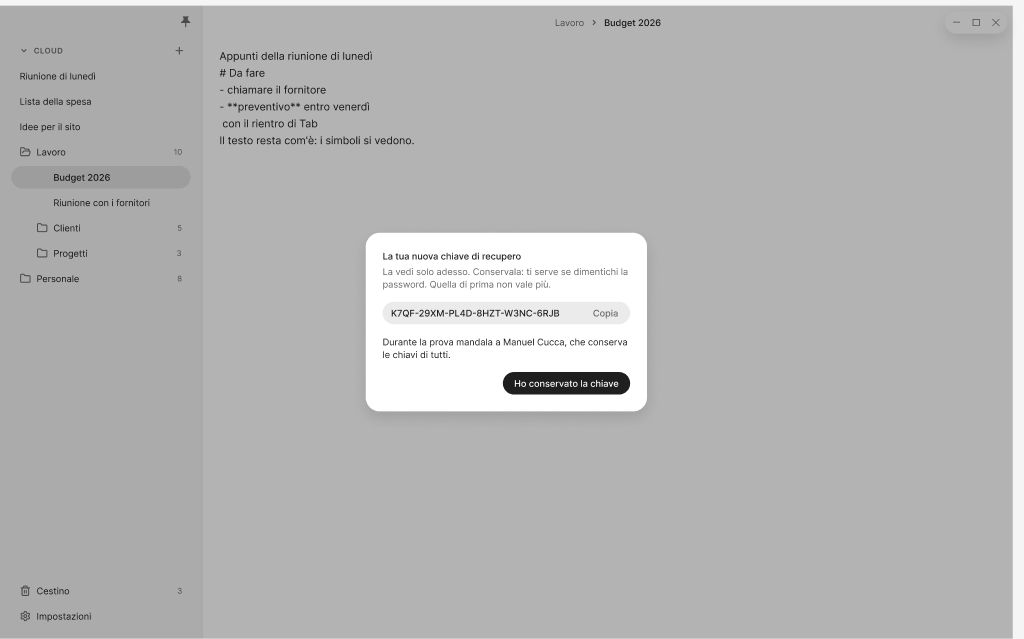
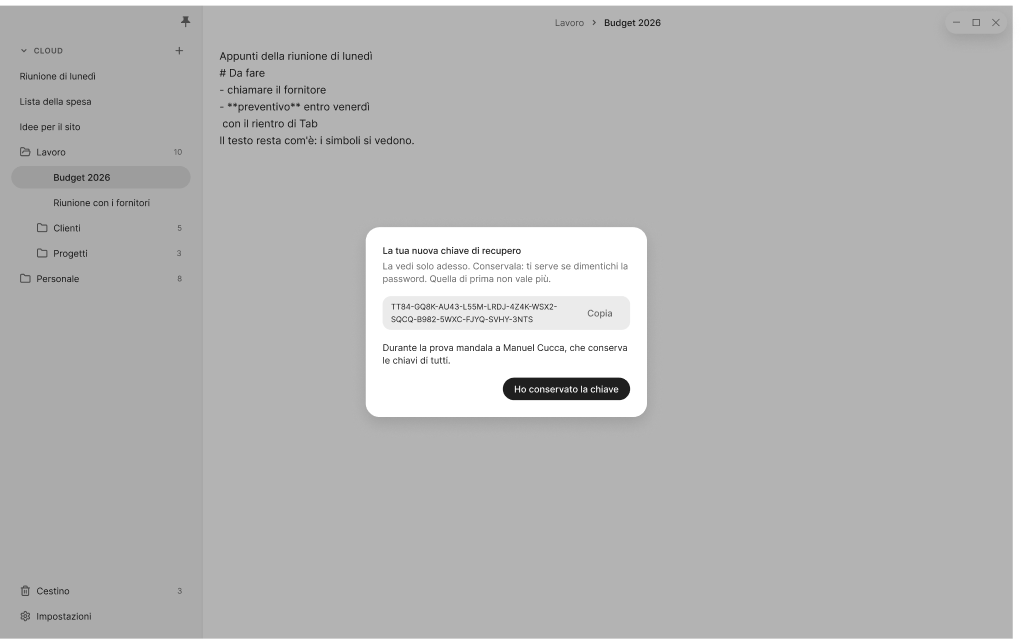
1.2.0 in coda: note di rilascio, guida e mockup della chiave

Changed region(s): [[0.3438, 0.3568, 0.625, 0.5055], [0.3438, 0.5352, 0.625, 0.6541]]

diff --git a/docs/avanzamento.md b/docs/avanzamento.md
@@ -2,7 +2,7 @@
 
 <!-- Stato della documentazione (vedi "Lo stato della documentazione" nella guida). Si sovrascrive; le modifiche non vanno nello storico. Chi riprende il lavoro parte da qui. -->
 
-**Ultimo aggiornamento:** 14/10/2026 (account nel database per la prova (DEC-132): Fase 1 di RF-14 e RF-16 approvata; Fase 2 approvata (FL-14, FL-15, RB-97 … RB-100); Fase 3 approvata (EN-05, EN-06 e stati del dispositivo; email e cancellazione dell'account non dall'app); Fase 4 approvata (wireframe di SC-05 con il recupero, SC-08 Cambia password, SC-09 Dispositivi collegati, collegamenti nel box dell'account di SC-06), Fase 5 in corso: nella libreria CMP-33 Casella, CMP-34 Chiave da conservare, CMP-35 Cambia password, CMP-36 Dispositivi collegati, CMP-22 con Recupero e Chiave nuova, CMP-32 con i collegamenti (pulsanti tenui, scelta di Manuel Cucca); token raggio-casella approvato; Fase 5 chiusa con la libreria pubblicata da Manuel Cucca; Fase 6 approvata (mockup di SC-05 recupero e chiave nuova, SC-08, SC-09, SC-06 aggiornati); Fase 7 approvata (tabelle utenti e dispositivi, versioni per account, migrazione dell'utente fisso, DEC-133 gettone del dispositivo senza scadenza); Fase 8 approvata il 14/10/2026: CA-14.23 … CA-14.36, CA-16.1 … CA-16.6, CA-10.17, TC-174 … TC-194, due testi confermati. Attività di sviluppo: 1) fatta il 14/10/2026 (47 prove del server; comando `npm run account`): server: migrazione, account, gettone del dispositivo, sincronizzazione per account, richieste nuove, comando degli account, prove automatiche; 2) fatta il 14/10/2026 (133 prove del nucleo, accesso vero contro l'API in locale superato): nucleo: sessione nuova e sei comandi; 3) e 4) fatte il 14/10/2026 (285 prove dell'interfaccia; chiave da conservare su due righe in un carattere più piccolo, scelta di Manuel Cucca); 5) prove a mano TC-174 … TC-194 superate in locale il 14/10/2026; restano TC-175 sul ramo di Neon e le prove sul Mac (TC-179, TC-182, TC-190); libreria e mockup di CMP-34 da aggiornare alle due righe. Prima: 3) interfaccia: CMP-33, CMP-34, recupero e chiave nuova in SC-05, SC-08, SC-09, collegamenti in CMP-32; 4) prove automatiche dell'interfaccia; 5) migrazione su un ramo di Neon e prove a mano; scenario d'uso approvato da Manuel Cucca, RF-16 da Should a Must, RF-10 con i blocchi separati per utente; la chiave nuova dopo un recupero la manda l'utente a Manuel Cucca; criteri di accettazione in Fase 8; idea ID-39, diario «a rete», da riprendere dopo. Prima, 09/10/2026: versione 1.1.0 di prova: numero di versione a 1.1.0 su `main` e tag `1.1.0` senza «v» (scelta di Manuel Cucca: il rilascio su GitHub non parte, la 1.0.0 ha la priorità), installata sul PC di Manuel Cucca. Prima, 09/10/2026: bollicina nelle note di rilascio della 1.1.0 (CHANGELOG) e nella guida per gli utenti (sezione «La bollicina del formato», nota rapida, Locale), approvate da Manuel Cucca; la bollicina è pronta per il rilascio con la 1.1.0, dopo la 1.0.0. Prima, 09/10/2026: bollicina: libreria pubblicata da Manuel Cucca, mockup di SC-02, SC-03 e del file `.md` di Locale aggiornati al ritocco ed esportati di nuovo; prossimo: il rilascio della 1.1.0 dopo la 1.0.0 (note di rilascio e guida con la bollicina). Prima, 09/10/2026: bollicina, libreria Figma aggiornata al ritocco (bollicina alta 32, nella nota rapida accanto a Chiudi, cassetto centrato o su due righe allineato in basso, anche nel codice), da pubblicare; poi i mockup. Prima, 09/10/2026: bollicina, attività 5 fatta: prove a mano TC-12, TC-167 … TC-171 e TC-173 superate nell'app di sviluppo, TC-172 superato; restano la libreria Figma e i mockup da aggiornare al ritocco grafico (con l'ok di Manuel Cucca), poi il rilascio con la 1.1.0. Prima, 09/10/2026: bollicina, attività 4 fatta: 8 prove automatiche dell'interfaccia (componente, nota aperta con l'editor vero, file `.md` e `.txt`, nota rapida), 274 prove in tutto; prossimo: attività 5, prove a mano. Prima, 09/10/2026: bollicina, attività 3 fatta: bollicina nella nota aperta, nella nota rapida (subito a sinistra di Chiudi, ritocco di Manuel Cucca) e nei file `.md`, alta 32 come gli altri pulsanti; provata nell'app di sviluppo; il formato acceso resta anche dopo uno spazio e quando il cursore torna nello stesso punto (266 prove); libreria Figma e mockup da aggiornare al ritocco; prossimo: attività 4, prove automatiche dell'interfaccia. Prima, 09/10/2026: bollicina, attività 2 fatta: componente `Bollicina.tsx` (CMP-10) con il cassetto su una o due righe, l'editor avvisa del formato e applica la voce scelta; prossimo: attività 3, la bollicina nella nota aperta, nella nota rapida e nei file `.md`. Prima, 09/10/2026: bollicina, attività 1 fatta: formato mostrato e comandi del cassetto in `formati.ts`, `<u>`, formato in attesa e `-[]` in `scrittura.ts`, 21 prove automatiche nuove (264 in tutto); prossimo: attività 2, la bollicina collegata all'editor. Prima, 09/10/2026: Fase 8 di RF-02 per la bollicina approvata; prossimo: attività 1 (comandi): TC-12 riscritto, TC-167 … TC-173, TC-11 e TC-13 rinviati con le scorciatoie; cinque attività di sviluppo. Prima, 09/10/2026: Fase 7 di RF-02 per la bollicina approvata; prossimo: Fase 8 (piano di test): editor CodeMirror confermato, comandi della bollicina sopra la libreria, scorciatoie rinviate da Manuel Cucca (vedi Rinvii). Prima, 09/10/2026: Fase 6 di RF-02 per la bollicina approvata; prossimo: Fase 7 (architettura): libreria pubblicata due volte (icone a tracciato unico e CMP-10; poi CMP-23 con la bollicina), file dei mockup aggiornato con i colori delle icone e i testi rimessi, mockup nuovi di SC-03 (bollicina chiusa, cassetto aperto, nota nuova con T), SC-02 (cassetto aperto) e del file `.md` di Locale; pillola e menu `/` SUPERATI. Prima, 09/10/2026: Fase 5 di RF-02 per la bollicina approvata: CMP-10 Bollicina del formato con le parti interne Bollicina e Cassetto, tre icone nuove, icone unite in un tracciato solo; libreria da pubblicare (la pubblica Manuel Cucca); prossimo: Fase 6, i mockup. Prima, 09/10/2026: Fase 4 di RF-02 per la bollicina approvata: SC-03 con la bollicina e il cassetto, SC-02 con la bollicina nella fascia in basso, il file `.md` di Locale. Prima, 09/10/2026: Fase 3 di RF-02 per la bollicina approvata: nessun attributo nuovo, i formati stanno nel Contenuto (RB-95). Prima, 09/10/2026: Fase 2 di RF-02 per la bollicina approvata: FL-02 con i tre modi di formattare, RB-93 … RB-96, SF-36 con il sottolineato. Prima, 09/10/2026: DEC-131: la bollicina del formato in vista Markdown, con il cassetto dei formati, le scorciatoie e `-[]`; Fase 1 di RF-02 approvata; prossimo: Fase 2 (flussi). Prima, 09/10/2026: ciclo 1.1.0: note di rilascio in CHANGELOG e guida per gli utenti aggiornate con la vista della nota; per scelta di Manuel Cucca la 1.1.0 si pubblica dopo la 1.0.0, che attende le prove sul Mac. Prima, 09/10/2026: ciclo 1.1.0, attività 5 fatta: prove a mano TC-10, TC-158 … TC-164 e TC-166 superate nell'app di sviluppo; in TC-10 il testo dopo i simboli di chiusura scritti a mano resta nel formato, comportamento previsto per Manuel Cucca; prossimo: 9 – Rilascio della 1.1.0. Prima, 09/10/2026: ciclo 1.1.0, attività 4 fatta: 7 prove automatiche dell'interfaccia per la vista, 248 prove passate, lint pulito; prossimo: attività 5, prove a mano. Prima, 09/10/2026: ciclo 1.1.0, attività 3 fatta: riga Vista in Info, vista nella nota aperta, nella nota rapida e in Locale per estensione; prossimo: attività 4, prove automatiche dell'interfaccia. Prima, 09/10/2026: ciclo 1.1.0, attività 2 fatta: l'editor con la vista Markdown, simboli nascosti e scrittura come in Word, 15 prove automatiche; prossimo: attività 3, l'interfaccia. Prima, 08/10/2026: ciclo 1.1.0: Fasi 1–8 della vista della nota fatte, piano di test TC-10 e TC-158 … TC-166, cinque attività di sviluppo; prossimo: attività 1, il nucleo. Prima, 08/10/2026: ciclo 1.1.0, DEC-130: ogni nota si vede come Testo o come Markdown, scelta nella comparsa Info e salvata con la nota; simboli nascosti e scrittura come in Word; Fase 1 di RF-02 con CA-02.2 e CA-02.14 … CA-02.19, più CA-17.25 per i file di Locale; prossimo: Fase 2 (flussi). Prima, 08/10/2026: DEC-129: la 1.0.0 attende le prove sul Mac sul ramo `rilascio/1.0`; su `main` si apre il ciclo della 1.1.0 con la formattazione Markdown di RF-02 (DEC-64, DEC-125); prima scelta: il motore dell'editor. Prima, 08/10/2026: Fase 9 conclusa: retrospettiva con SF-38 … SF-42 nel catalogo delle sfighe, ID-37 e ID-38 nel registro idee, DEC-128 e due aggiunte alla guida; prossimo: le prove sul Mac elencate in DEC-128, poi il rilascio della 1.0.0 quando lo decide Manuel Cucca. Prima, 08/10/2026: note di rilascio della 1.0.0 approvate. Prima, 08/10/2026: guida per gli utenti approvata; restano note di rilascio e retrospettiva, più le discordanze tra documenti e codice trovate scrivendo la guida. Prima, 07/10/2026: DEC-125: RF-02 (formattazione) e RF-03 (immagini) fuori dalla v1 personale; prossimo la Fase 9. Prima, 07/10/2026: RF-11 Interazioni rapide: criteri e piano di test approvati, prove TC-150 … TC-157 superate; Pronto per il rilascio (resta macOS, con ⌘). Prima, 07/10/2026: DEC-124 accettata e fatta: clic fuori sulle finestre col velo come Esc, manina su tutto ciò che si clicca; doppio occhio di Edge nel campo password tolto; rilasciati nella 0.1.13. Prima, 07/10/2026: rilascio 0.1.12 con la correzione della sincronizzazione dopo un archivio nuovo e il server che accetta solo il JWT. Prima, 07/10/2026: prove a mano del blocco 1 fatte dall'agente con app di sviluppo in parallelo: sincronizzazione TC-87 … TC-95 e TC-103 (con una correzione nel nucleo), scrivere TC-02, TC-03, TC-23, TC-24, TC-26, TC-27, TC-30, ricerca TC-74, Locale TC-104; restano le prove che vogliono gesti veri sul sistema o il Mac. Prima, 07/10/2026: verso la v1 personale, blocco 1 scelto da Manuel Cucca: produzione ripulita (gettone statico tolto dall'API), backup in sospeso, prove a mano fatte dall'agente avvisando prima di ognuna. Prima, 07/10/2026: DEC-123 accettata da Manuel Cucca: comparsa del file di Locale con Chiudi file e Togli da Locale; codice fatto e rilasciato nella 0.1.11, TC-146 e TC-148 superati. Prima, 07/10/2026: DEC-122 accettata da Manuel Cucca: impostazioni con il box dell'account in cima e le sezioni in riquadri; libreria approvata (CMP-31, CMP-32); codice fatto e rilasciato nella 0.1.10, TC-141 e TC-142 superati; restano TC-143 … TC-145 a mano. 0.1.9 installata sul PC Windows, note sul server tutte cifrate; da fare il Mac, TC-127, TC-136 e la rimozione di `MEMODU_IMPRONTA`. Prima, 06/10/2026: DEC-121 accettata da Manuel Cucca: accesso con email e password di un utente fisso e cifratura end-to-end, architettura temporanea e finale; documenti aggiornati, RF-14 e cifratura di RF-10 Pronti con criteri e piano di test approvati, la cifratura di RF-10 va in Fase 8; codice da fare. Prima, 04/10/2026: DEC-120 corretto dopo la prova di Manuel Cucca sulla 0.1.7: velo su tutta la finestra mentre si trascina da fuori, il file rilasciato non entra più nel testo aperto; rilasciato nella 0.1.8, installata sul PC di Manuel Cucca; TC-122 superato su Windows, da provare sul Mac; DEC-120: file e cartelle trascinati dentro Memodu vanno in Locale, trascinamento interno con il puntatore, 0.1.7 rilasciata e installata; DEC-119: sezione CLOUD con le non organizzate nella radice, note prima delle cartelle; libreria pubblicata (CMP-14, menu Aggiungi in CMP-09), mockup di SC-01, SC-03, SC-04, SC-06 e Locale aggiornati con le esportazioni; codice fatto il 04/10/2026 (`Colonna.tsx`, Sposta in, ricerca, ordine di Locale nel nucleo) e visto nell'app; RF-17 Locale progettato dalla Fase 1 alla 8 e scritto, DEC-115 … DEC-118; Ctrl + W e «Chiudi» per impostazioni e cestino, DEC-116, DEC-117; rilascio 0.1.4, installato su tutti e due i computer; TC-86 superato, le altre prove a mano della sincronizzazione messe da parte; criteri e piano di test della sincronizzazione approvati con DEC-109 … DEC-114, RF-10 senza cifratura e RF-14 Pronti; server di sincronizzazione su Vercel con Neon e due computer collegati; rilasci 0.1.2 e 0.1.3, con il testo della nota su tutta la larghezza (DEC-107); prima, 01/10/2026: allineamento generale della documentazione a decisioni e codice, con i dubbi raccolti per Manuel Cucca; CMP-25 in tutte le aree che scorrono, provata anche nella nota rapida; DEC-102 Ctrl + \ fissa la colonna, provata su Windows, da provare su macOS; DEC-99 icona della cartella e DEC-100 spazi dal ruolo del contenitore: libreria, mockup e codice allineati e misurati nell'app; DEC-97: Info più snella e due regole per gli spazi dei contenitori, in libreria e nel codice; prossimo: la pubblicazione della libreria e i mockup; DEC-96: Info sotto il titolo e ricerca avanzata, libreria allineata; RF-08 Ricerca: prove a mano nell'app e correzione dei due difetti trovati; prossimo: le prove che vogliono Manuel Cucca, poi Fase 9)
+**Ultimo aggiornamento:** 14/10/2026 (account nel database pronti per la 1.2.0, in coda dopo la 1.1.0 e la 1.0.0: scelta di Manuel Cucca, quando si prova la 1.0.0 sul Mac le correzioni si riportano a cascata nella 1.1.0 e nella 1.2.0 finché tutto è provato. Mockup della chiave su due righe aggiornati dopo la pubblicazione della libreria; note di rilascio e guida per gli utenti scritte. Prima, 14/10/2026: account nel database per la prova (DEC-132): Fase 1 di RF-14 e RF-16 approvata; Fase 2 approvata (FL-14, FL-15, RB-97 … RB-100); Fase 3 approvata (EN-05, EN-06 e stati del dispositivo; email e cancellazione dell'account non dall'app); Fase 4 approvata (wireframe di SC-05 con il recupero, SC-08 Cambia password, SC-09 Dispositivi collegati, collegamenti nel box dell'account di SC-06), Fase 5 in corso: nella libreria CMP-33 Casella, CMP-34 Chiave da conservare, CMP-35 Cambia password, CMP-36 Dispositivi collegati, CMP-22 con Recupero e Chiave nuova, CMP-32 con i collegamenti (pulsanti tenui, scelta di Manuel Cucca); token raggio-casella approvato; Fase 5 chiusa con la libreria pubblicata da Manuel Cucca; Fase 6 approvata (mockup di SC-05 recupero e chiave nuova, SC-08, SC-09, SC-06 aggiornati); Fase 7 approvata (tabelle utenti e dispositivi, versioni per account, migrazione dell'utente fisso, DEC-133 gettone del dispositivo senza scadenza); Fase 8 approvata il 14/10/2026: CA-14.23 … CA-14.36, CA-16.1 … CA-16.6, CA-10.17, TC-174 … TC-194, due testi confermati. Attività di sviluppo: 1) fatta il 14/10/2026 (47 prove del server; comando `npm run account`): server: migrazione, account, gettone del dispositivo, sincronizzazione per account, richieste nuove, comando degli account, prove automatiche; 2) fatta il 14/10/2026 (133 prove del nucleo, accesso vero contro l'API in locale superato): nucleo: sessione nuova e sei comandi; 3) e 4) fatte il 14/10/2026 (285 prove dell'interfaccia; chiave da conservare su due righe in un carattere più piccolo, scelta di Manuel Cucca); 5) prove a mano TC-174 … TC-194 superate in locale il 14/10/2026; restano TC-175 sul ramo di Neon e le prove sul Mac (TC-179, TC-182, TC-190); libreria e mockup di CMP-34 da aggiornare alle due righe. Prima: 3) interfaccia: CMP-33, CMP-34, recupero e chiave nuova in SC-05, SC-08, SC-09, collegamenti in CMP-32; 4) prove automatiche dell'interfaccia; 5) migrazione su un ramo di Neon e prove a mano; scenario d'uso approvato da Manuel Cucca, RF-16 da Should a Must, RF-10 con i blocchi separati per utente; la chiave nuova dopo un recupero la manda l'utente a Manuel Cucca; criteri di accettazione in Fase 8; idea ID-39, diario «a rete», da riprendere dopo. Prima, 09/10/2026: versione 1.1.0 di prova: numero di versione a 1.1.0 su `main` e tag `1.1.0` senza «v» (scelta di Manuel Cucca: il rilascio su GitHub non parte, la 1.0.0 ha la priorità), installata sul PC di Manuel Cucca. Prima, 09/10/2026: bollicina nelle note di rilascio della 1.1.0 (CHANGELOG) e nella guida per gli utenti (sezione «La bollicina del formato», nota rapida, Locale), approvate da Manuel Cucca; la bollicina è pronta per il rilascio con la 1.1.0, dopo la 1.0.0. Prima, 09/10/2026: bollicina: libreria pubblicata da Manuel Cucca, mockup di SC-02, SC-03 e del file `.md` di Locale aggiornati al ritocco ed esportati di nuovo; prossimo: il rilascio della 1.1.0 dopo la 1.0.0 (note di rilascio e guida con la bollicina). Prima, 09/10/2026: bollicina, libreria Figma aggiornata al ritocco (bollicina alta 32, nella nota rapida accanto a Chiudi, cassetto centrato o su due righe allineato in basso, anche nel codice), da pubblicare; poi i mockup. Prima, 09/10/2026: bollicina, attività 5 fatta: prove a mano TC-12, TC-167 … TC-171 e TC-173 superate nell'app di sviluppo, TC-172 superato; restano la libreria Figma e i mockup da aggiornare al ritocco grafico (con l'ok di Manuel Cucca), poi il rilascio con la 1.1.0. Prima, 09/10/2026: bollicina, attività 4 fatta: 8 prove automatiche dell'interfaccia (componente, nota aperta con l'editor vero, file `.md` e `.txt`, nota rapida), 274 prove in tutto; prossimo: attività 5, prove a mano. Prima, 09/10/2026: bollicina, attività 3 fatta: bollicina nella nota aperta, nella nota rapida (subito a sinistra di Chiudi, ritocco di Manuel Cucca) e nei file `.md`, alta 32 come gli altri pulsanti; provata nell'app di sviluppo; il formato acceso resta anche dopo uno spazio e quando il cursore torna nello stesso punto (266 prove); libreria Figma e mockup da aggiornare al ritocco; prossimo: attività 4, prove automatiche dell'interfaccia. Prima, 09/10/2026: bollicina, attività 2 fatta: componente `Bollicina.tsx` (CMP-10) con il cassetto su una o due righe, l'editor avvisa del formato e applica la voce scelta; prossimo: attività 3, la bollicina nella nota aperta, nella nota rapida e nei file `.md`. Prima, 09/10/2026: bollicina, attività 1 fatta: formato mostrato e comandi del cassetto in `formati.ts`, `<u>`, formato in attesa e `-[]` in `scrittura.ts`, 21 prove automatiche nuove (264 in tutto); prossimo: attività 2, la bollicina collegata all'editor. Prima, 09/10/2026: Fase 8 di RF-02 per la bollicina approvata; prossimo: attività 1 (comandi): TC-12 riscritto, TC-167 … TC-173, TC-11 e TC-13 rinviati con le scorciatoie; cinque attività di sviluppo. Prima, 09/10/2026: Fase 7 di RF-02 per la bollicina approvata; prossimo: Fase 8 (piano di test): editor CodeMirror confermato, comandi della bollicina sopra la libreria, scorciatoie rinviate da Manuel Cucca (vedi Rinvii). Prima, 09/10/2026: Fase 6 di RF-02 per la bollicina approvata; prossimo: Fase 7 (architettura): libreria pubblicata due volte (icone a tracciato unico e CMP-10; poi CMP-23 con la bollicina), file dei mockup aggiornato con i colori delle icone e i testi rimessi, mockup nuovi di SC-03 (bollicina chiusa, cassetto aperto, nota nuova con T), SC-02 (cassetto aperto) e del file `.md` di Locale; pillola e menu `/` SUPERATI. Prima, 09/10/2026: Fase 5 di RF-02 per la bollicina approvata: CMP-10 Bollicina del formato con le parti interne Bollicina e Cassetto, tre icone nuove, icone unite in un tracciato solo; libreria da pubblicare (la pubblica Manuel Cucca); prossimo: Fase 6, i mockup. Prima, 09/10/2026: Fase 4 di RF-02 per la bollicina approvata: SC-03 con la bollicina e il cassetto, SC-02 con la bollicina nella fascia in basso, il file `.md` di Locale. Prima, 09/10/2026: Fase 3 di RF-02 per la bollicina approvata: nessun attributo nuovo, i formati stanno nel Contenuto (RB-95). Prima, 09/10/2026: Fase 2 di RF-02 per la bollicina approvata: FL-02 con i tre modi di formattare, RB-93 … RB-96, SF-36 con il sottolineato. Prima, 09/10/2026: DEC-131: la bollicina del formato in vista Markdown, con il cassetto dei formati, le scorciatoie e `-[]`; Fase 1 di RF-02 approvata; prossimo: Fase 2 (flussi). Prima, 09/10/2026: ciclo 1.1.0: note di rilascio in CHANGELOG e guida per gli utenti aggiornate con la vista della nota; per scelta di Manuel Cucca la 1.1.0 si pubblica dopo la 1.0.0, che attende le prove sul Mac. Prima, 09/10/2026: ciclo 1.1.0, attività 5 fatta: prove a mano TC-10, TC-158 … TC-164 e TC-166 superate nell'app di sviluppo; in TC-10 il testo dopo i simboli di chiusura scritti a mano resta nel formato, comportamento previsto per Manuel Cucca; prossimo: 9 – Rilascio della 1.1.0. Prima, 09/10/2026: ciclo 1.1.0, attività 4 fatta: 7 prove automatiche dell'interfaccia per la vista, 248 prove passate, lint pulito; prossimo: attività 5, prove a mano. Prima, 09/10/2026: ciclo 1.1.0, attività 3 fatta: riga Vista in Info, vista nella nota aperta, nella nota rapida e in Locale per estensione; prossimo: attività 4, prove automatiche dell'interfaccia. Prima, 09/10/2026: ciclo 1.1.0, attività 2 fatta: l'editor con la vista Markdown, simboli nascosti e scrittura come in Word, 15 prove automatiche; prossimo: attività 3, l'interfaccia. Prima, 08/10/2026: ciclo 1.1.0: Fasi 1–8 della vista della nota fatte, piano di test TC-10 e TC-158 … TC-166, cinque attività di sviluppo; prossimo: attività 1, il nucleo. Prima, 08/10/2026: ciclo 1.1.0, DEC-130: ogni nota si vede come Testo o come Markdown, scelta nella comparsa Info e salvata con la nota; simboli nascosti e scrittura come in Word; Fase 1 di RF-02 con CA-02.2 e CA-02.14 … CA-02.19, più CA-17.25 per i file di Locale; prossimo: Fase 2 (flussi). Prima, 08/10/2026: DEC-129: la 1.0.0 attende le prove sul Mac sul ramo `rilascio/1.0`; su `main` si apre il ciclo della 1.1.0 con la formattazione Markdown di RF-02 (DEC-64, DEC-125); prima scelta: il motore dell'editor. Prima, 08/10/2026: Fase 9 conclusa: retrospettiva con SF-38 … SF-42 nel catalogo delle sfighe, ID-37 e ID-38 nel registro idee, DEC-128 e due aggiunte alla guida; prossimo: le prove sul Mac elencate in DEC-128, poi il rilascio della 1.0.0 quando lo decide Manuel Cucca. Prima, 08/10/2026: note di rilascio della 1.0.0 approvate. Prima, 08/10/2026: guida per gli utenti approvata; restano note di rilascio e retrospettiva, più le discordanze tra documenti e codice trovate scrivendo la guida. Prima, 07/10/2026: DEC-125: RF-02 (formattazione) e RF-03 (immagini) fuori dalla v1 personale; prossimo la Fase 9. Prima, 07/10/2026: RF-11 Interazioni rapide: criteri e piano di test approvati, prove TC-150 … TC-157 superate; Pronto per il rilascio (resta macOS, con ⌘). Prima, 07/10/2026: DEC-124 accettata e fatta: clic fuori sulle finestre col velo come Esc, manina su tutto ciò che si clicca; doppio occhio di Edge nel campo password tolto; rilasciati nella 0.1.13. Prima, 07/10/2026: rilascio 0.1.12 con la correzione della sincronizzazione dopo un archivio nuovo e il server che accetta solo il JWT. Prima, 07/10/2026: prove a mano del blocco 1 fatte dall'agente con app di sviluppo in parallelo: sincronizzazione TC-87 … TC-95 e TC-103 (con una correzione nel nucleo), scrivere TC-02, TC-03, TC-23, TC-24, TC-26, TC-27, TC-30, ricerca TC-74, Locale TC-104; restano le prove che vogliono gesti veri sul sistema o il Mac. Prima, 07/10/2026: verso la v1 personale, blocco 1 scelto da Manuel Cucca: produzione ripulita (gettone statico tolto dall'API), backup in sospeso, prove a mano fatte dall'agente avvisando prima di ognuna. Prima, 07/10/2026: DEC-123 accettata da Manuel Cucca: comparsa del file di Locale con Chiudi file e Togli da Locale; codice fatto e rilasciato nella 0.1.11, TC-146 e TC-148 superati. Prima, 07/10/2026: DEC-122 accettata da Manuel Cucca: impostazioni con il box dell'account in cima e le sezioni in riquadri; libreria approvata (CMP-31, CMP-32); codice fatto e rilasciato nella 0.1.10, TC-141 e TC-142 superati; restano TC-143 … TC-145 a mano. 0.1.9 installata sul PC Windows, note sul server tutte cifrate; da fare il Mac, TC-127, TC-136 e la rimozione di `MEMODU_IMPRONTA`. Prima, 06/10/2026: DEC-121 accettata da Manuel Cucca: accesso con email e password di un utente fisso e cifratura end-to-end, architettura temporanea e finale; documenti aggiornati, RF-14 e cifratura di RF-10 Pronti con criteri e piano di test approvati, la cifratura di RF-10 va in Fase 8; codice da fare. Prima, 04/10/2026: DEC-120 corretto dopo la prova di Manuel Cucca sulla 0.1.7: velo su tutta la finestra mentre si trascina da fuori, il file rilasciato non entra più nel testo aperto; rilasciato nella 0.1.8, installata sul PC di Manuel Cucca; TC-122 superato su Windows, da provare sul Mac; DEC-120: file e cartelle trascinati dentro Memodu vanno in Locale, trascinamento interno con il puntatore, 0.1.7 rilasciata e installata; DEC-119: sezione CLOUD con le non organizzate nella radice, note prima delle cartelle; libreria pubblicata (CMP-14, menu Aggiungi in CMP-09), mockup di SC-01, SC-03, SC-04, SC-06 e Locale aggiornati con le esportazioni; codice fatto il 04/10/2026 (`Colonna.tsx`, Sposta in, ricerca, ordine di Locale nel nucleo) e visto nell'app; RF-17 Locale progettato dalla Fase 1 alla 8 e scritto, DEC-115 … DEC-118; Ctrl + W e «Chiudi» per impostazioni e cestino, DEC-116, DEC-117; rilascio 0.1.4, installato su tutti e due i computer; TC-86 superato, le altre prove a mano della sincronizzazione messe da parte; criteri e piano di test della sincronizzazione approvati con DEC-109 … DEC-114, RF-10 senza cifratura e RF-14 Pronti; server di sincronizzazione su Vercel con Neon e due computer collegati; rilasci 0.1.2 e 0.1.3, con il testo della nota su tutta la larghezza (DEC-107); prima, 01/10/2026: allineamento generale della documentazione a decisioni e codice, con i dubbi raccolti per Manuel Cucca; CMP-25 in tutte le aree che scorrono, provata anche nella nota rapida; DEC-102 Ctrl + \ fissa la colonna, provata su Windows, da provare su macOS; DEC-99 icona della cartella e DEC-100 spazi dal ruolo del contenitore: libreria, mockup e codice allineati e misurati nell'app; DEC-97: Info più snella e due regole per gli spazi dei contenitori, in libreria e nel codice; prossimo: la pubblicazione della libreria e i mockup; DEC-96: Info sotto il titolo e ricerca avanzata, libreria allineata; RF-08 Ricerca: prove a mano nell'app e correzione dei due difetti trovati; prossimo: le prove che vogliono Manuel Cucca, poi Fase 9)
 
 ## Pacchetti e frammenti
 
@@ -21,7 +21,7 @@ Perimetro: note solo cloud più un editor di file locali non sincronizzati (DEC-
 | Locale (DEC-115, DEC-123) | RF-17 | 1–8; codice fatto il 04/10/2026 | DEC-123: fatto; TC-146 … TC-149 superati il 07/10/2026 (codice fatto e rilasciato nella 0.1.11 il 07/10/2026, TC-146 e TC-148 superati); poi prove a mano di Manuel Cucca | **DEC-123 del 07/10/2026:** clic sul nome di un file nel percorso apre una comparsa come Info con il nome, Chiudi file e, per un file aggiunto da solo, Togli da Locale. **Codice fatto il 04/10/2026:** nucleo `archivio_locale.rs` e `locale.rs` (schema 6, 16 prove), interfaccia `client/src/locale/` (7 prove); provato nell'app con una cartella dei dati di prova: apertura, pallino, Ctrl + S, file cambiato fuori, UTF-8, CRLF, file troppo grande, sola lettura, file nuovo, menu, Cestino di Windows. Prove a mano del 05/10/2026 nell'app installata (0.1.8) su Windows (agente, cartella dei dati di prova): superati TC-104 (tranne il secondo computer), TC-105, TC-106, TC-107, TC-113, TC-115, TC-117, TC-119, TC-123; **TC-114 non superato**: su un disco senza Cestino (provato su una condivisione di rete) Elimina cancellava per sempre senza la conferma; corretto nel nucleo il 05/10/2026 (solo i dischi fissi di Windows vanno nel Cestino), provato nell'app compilata e superato, non ancora rilasciato; resta la prova con una chiavetta vera (vedi `moduli/locale/8-test.md`). Scelte di Manuel Cucca del 04/10/2026 in `moduli/locale/1-requisiti.md`: voce Locale nella colonna con le cartelle aggiunte, solo .md e .txt, crea, rinomina, sposta ed elimina sul disco (nel Cestino del sistema), salvataggio con Ctrl + S, avviso se il file cambia fuori, niente tag, ricerca, cestino né sincronizzazione; elenco delle cartelle per computer. Fase 1 chiusa il 04/10/2026 con lo scenario d'uso; Manuel Cucca ha scelto di progettarlo subito |
 | Vista della nota · 1.1.0 (DEC-129, DEC-130) | RF-02 (CA-02.2, CA-02.14 … CA-02.20), CA-17.25 | 1, 2, 3, 4, 5, 6, 7, 8 | Pronto per il rilascio, dopo la 1.0.0 (attività 1 … 5 fatte: il nucleo il 08/10/2026, le altre il 09/10/2026; prove a mano TC-10, TC-158 … TC-164 e TC-166 superate, TC-165 in prova automatica) | Su `main`; la 1.0.0 attende le prove sul Mac sul ramo `rilascio/1.0`. **Attività:** (1) nucleo: schema 7 con `vista`, note nuove in `markdown`, `cambia_vista`, sincronizzazione con RB-92, prove del nucleo (TC-165); (2) editor: compartimento Markdown in `Editor.tsx` con la resa da `anteprima.ts`, simboli atomici, ai bordi e Invio e Backspace come in Word, casella cliccabile (CA-02.2, CA-02.15 … CA-02.20); (3) interfaccia: riga Vista in Info con `SceltaSegmenti`, vista nella nota aperta, nella nota rapida e in Locale per estensione (CA-02.14, CA-17.25); (4) prove automatiche dell'interfaccia e lint; (5) prove a mano TC-10, TC-158 … TC-166, poi 9 – Rilascio della 1.1.0 |
 | Bollicina del formato (DEC-131) | RF-02 (CA-02.3 … CA-02.5, CA-02.21 … CA-02.25) | 1, 2, 3, 4, 5, 6, 7, 8 | Pronto per il rilascio, con la 1.1.0 | Su `main`, dopo la vista della nota. Sostituisce la pillola degli strumenti (CMP-10). Attività di sviluppo: 1) formato mostrato e comandi in `formati.ts`, `<u>` e `-[]` in `scrittura.ts`, con le prove automatiche (TC-172); 2) componente `Bollicina.tsx` e collegamento con l'editor; 3) nota aperta, nota rapida e file `.md`; 4) prove automatiche dell'interfaccia; 5) prove a mano (TC-12, TC-167 … TC-171, TC-173) |
-| Account nel database per la prova (DEC-132) | RF-14, RF-16, RF-10 | 1, 2, 3, 4, 5, 6, 7, 8 | Sviluppo: attività 5, prove a mano (quasi finite) | Fase 1 approvata da Manuel Cucca il 14/10/2026; Fase 2 approvata da Manuel Cucca il 14/10/2026: FL-08 aggiornato, FL-14 (cambio della password e recupero), FL-15 (dispositivi e chiusura a distanza), RB-97 … RB-100; creazione dell'account rinviata |
+| Account nel database per la prova (DEC-132) | RF-14, RF-16, RF-10 | 1, 2, 3, 4, 5, 6, 7, 8 | 9 – Rilascio della 1.2.0, in coda dopo la 1.1.0 e la 1.0.0 | Fase 1 approvata da Manuel Cucca il 14/10/2026; Fase 2 approvata da Manuel Cucca il 14/10/2026: FL-08 aggiornato, FL-14 (cambio della password e recupero), FL-15 (dispositivi e chiusura a distanza), RB-97 … RB-100; creazione dell'account rinviata |
 | Should | RF-07, RF-09, RF-12, RF-13, RF-16 | — | 1 – Requisiti | Mancano gli scenari d'uso |
 
 ### Idee parcheggiate

diff --git a/docs/rilascio/guida-utenti.md b/docs/rilascio/guida-utenti.md
@@ -175,13 +175,24 @@ Il cestino si chiude con «Chiudi cestino» o Ctrl + W.
 Con l'accesso, le note di CLOUD si sincronizzano tra tutti i computer su cui usi Memodu. Viaggiano e restano sul server **cifrate**: solo i tuoi computer possono leggerle.
 
 ### Accedere
-Apri «Impostazioni» e, nel riquadro in cima, premi «Accedi». Scrivi l'email e la password della tua installazione e premi «Accedi». Al primo accesso su un computer arrivano tutte le note.
+Apri «Impostazioni» e, nel riquadro in cima, premi «Accedi». Scrivi l'email e la password del tuo account e premi «Accedi». Al primo accesso su un computer arrivano tutte le tue note. L'account te lo crea Manuel Cucca, che ti dà anche la chiave di recupero.
 
-- L'accesso vale 30 giorni e Memodu lo rinnova da sola: se il computer si collega almeno una volta al mese non devi più accedere.
+- L'accesso non scade: dura finché esci o finché scolleghi il computer da un altro.
 - «Non voglio usare il cloud» chiude la finestra e lascia le note solo su questo computer.
 - **Esci**, nel riquadro dell'account, scollega il computer. Prima prova a mandare le ultime modifiche; le note restano comunque sul computer.
 
-Conserva la **chiave di recupero** che hai ricevuto quando è stato creato l'utente: serve a scegliere una password nuova senza perdere le note. Se perdi sia la password sia la chiave, le note sul server non si recuperano più.
+Conserva la **chiave di recupero** che hai ricevuto con l'account: serve a scegliere una password nuova senza perdere le note. Se perdi sia la password sia la chiave, le note sul server non si recuperano più.
+
+### Password dimenticata
+Nella finestra di accesso premi «Password dimenticata?». Scrivi l'email, la chiave di recupero e due volte la password nuova, poi «Recupera». Se pensi che qualcuno conosca la tua password, accendi «Scollega gli altri miei dispositivi»: gli altri computer ti chiederanno di accedere con la password nuova.
+
+Alla fine Memodu mostra una **chiave di recupero nuova**, una volta sola: quella di prima non vale più. Premi «Copia» e, durante la prova, mandala a Manuel Cucca, che conserva le chiavi di tutti. Poi «Ho conservato la chiave».
+
+### Cambiare la password
+Impostazioni › «Cambia password», nel riquadro dell'account. Scrivi la password attuale e due volte quella nuova. Se non ricordi la password attuale, «Usa la chiave di recupero»: in quel caso alla fine ricevi una chiave di recupero nuova, come nel recupero. Questo computer resta collegato; con «Scollega gli altri miei dispositivi» gli altri ti chiederanno di accedere di nuovo.
+
+### Dispositivi collegati
+Impostazioni › «Dispositivi collegati» mostra i computer collegati al tuo account, con l'ultima sincronizzazione; quello che stai usando è il primo. «Scollega» su un altro computer, poi di nuovo «Scollega» per confermare: quel computer smette di sincronizzarsi alla prima occasione. Le note che ci sono sopra restano lì. Il computer che stai usando si scollega con «Esci».
 
 ### Quando si sincronizza
 Da sola: all'avvio, pochi secondi dopo ogni modifica e ogni 30 secondi. Non devi fare niente.

diff --git a/CHANGELOG.md b/CHANGELOG.md
@@ -7,7 +7,21 @@ Queste note sono scritte per gli utenti. Lo storico interno della documentazione
 
 ## [Non rilasciato]
 
-Diventerà la 1.1.0, con la formattazione Markdown nelle note.
+In coda dopo la 1.1.0 e la 1.0.0: diventerà la 1.2.0, con gli account per più persone.
+
+### Aggiunto
+- Ognuno accede con il suo account: le note di un account non si vedono dagli altri
+- «Password dimenticata?» nella finestra di accesso: con la chiave di recupero scegli una password nuova senza perdere le note; alla fine Memodu mostra una chiave di recupero nuova, una volta sola, con «Copia»
+- «Cambia password» nelle Impostazioni, con la password attuale o con la chiave di recupero
+- Nel recupero e nel cambio della password puoi scollegare gli altri tuoi computer
+- «Dispositivi collegati» nelle Impostazioni: vedi i computer collegati al tuo account e ne scolleghi uno a distanza, per esempio se lo perdi
+
+### Cambiato
+- L'accesso non scade più: dura finché esci o finché scolleghi il computer da un altro
+- Dopo l'aggiornamento ogni computer chiede una volta di accedere di nuovo, con la stessa email e la stessa password
+- «Esci» toglie il computer anche dall'elenco dei dispositivi collegati
+
+Prima, e già pronta: la 1.1.0, con la formattazione Markdown nelle note.
 
 ### Aggiunto
 - Ogni nota si può vedere come Testo o come Markdown: si sceglie nella nuova riga Vista di Info e la scelta resta alla nota, anche sugli altri computer

diff --git a/docs/registri/storico.md b/docs/registri/storico.md
@@ -559,3 +559,5 @@
 | 14/10/2026 | Agente IA | DEC-132, attività 3 e 4: schermate del recupero, del cambio della password e dei dispositivi collegati, 11 prove nuove dell'interfaccia; attività 5: prove a mano TC-174 … TC-194 in locale | DEC-132 |
 | 14/10/2026 | Agente IA | CMP-34 nella libreria su due righe (proprietà Prima riga e Seconda riga), wireframe della chiave nuova aggiornato; da pubblicare | DEC-132 |
 | 14/10/2026 | Agente IA | Runbook aggiornato per gli account nel database: variabili del server, comando degli account, password persa, chiave in mani sbagliate, computer perso, passaggio agli account | DEC-132 |
+| 14/10/2026 | Manuel Cucca | Gli account nel database escono con la 1.2.0, in coda dopo la 1.1.0 e la 1.0.0; le correzioni delle prove della 1.0.0 sul Mac si riportano a cascata nella 1.1.0 e nella 1.2.0 finché tutto è provato | DEC-132 |
+| 14/10/2026 | Agente IA | Mockup della chiave nuova su due righe dopo la pubblicazione della libreria; note di rilascio della 1.2.0 e guida per gli utenti (password dimenticata, cambio della password, dispositivi collegati) | DEC-132 |
